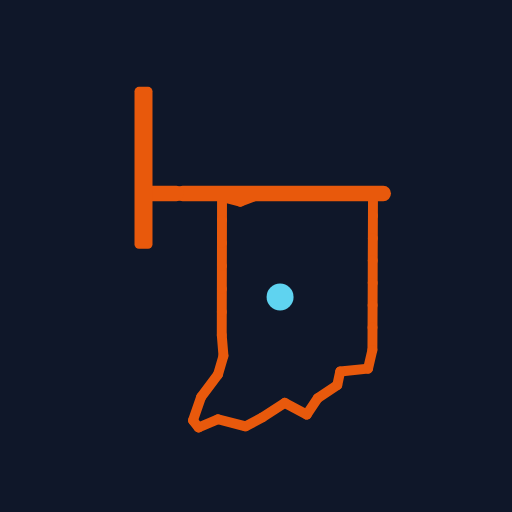
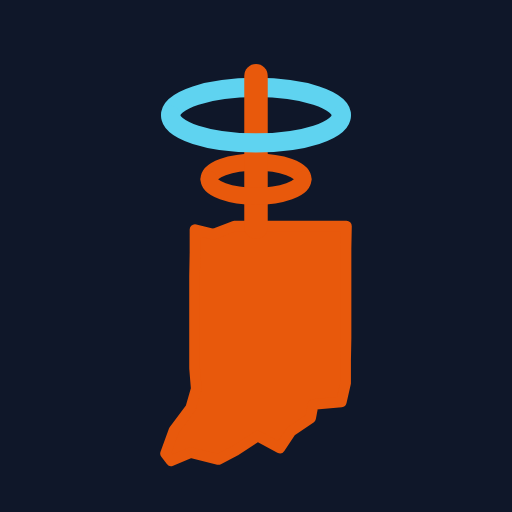
New mark: an antenna rising out of Indiana, its signal rings drawn as hoops
Claude-Session: https://claude.ai/code/session_01WD4jFhUxvP5nJsd9kdkoez

Changed region(s): [[0.25, 0.125, 0.7812, 0.9062]]

diff --git a/channels/index.html b/channels/index.html
@@ -6,7 +6,7 @@
 <meta name="viewport" content="width=device-width, initial-scale=1, viewport-fit=cover">
 <meta name="description" content="Listen-only channel lists you can import into CHIRP: FRS, GMRS, MURS, Indianapolis area repeaters, NOAA Weather Radio for your county, calling frequencies, and more. For information only; check the official sources.">
 <title>Channel Lists for CHIRP: FRS, GMRS, MURS, Repeaters, and Weather | HOOP</title>
-<link rel="icon" href="../assets/favicon.svg?v=20261025e" type="image/svg+xml">
+<link rel="icon" href="../assets/favicon.svg?v=20261111m" type="image/svg+xml">
 <meta property="og:type" content="website">
 <meta property="og:site_name" content="HOOP · Hoosier Off-Grid Open Playbook">
 <meta property="og:title" content="Channel lists for CHIRP, Indiana">
@@ -74,7 +74,7 @@ ol.how { margin: 0; padding-left: 1.3em; display: grid; gap: 6px; }
 </head>
 <body>
 <header class="site-head"><div class="bar">
-  <a class="brand" href="../"><img class="brand-mark" src="../assets/mark.svg?v=20261025e" alt="" width="34" height="53"><img class="brand-mark-sm" src="../assets/favicon.svg?v=20261025e" alt="" width="30" height="38"><span class="brand-text">HOOP<small>Hoosier Off-Grid Open Playbook</small></span></a>
+  <a class="brand" href="../"><img class="brand-mark" src="../assets/mark.svg?v=20261111m" alt="" width="32" height="50"><img class="brand-mark-sm" src="../assets/favicon.svg?v=20261111m" alt="" width="34" height="34"><span class="brand-text">HOOP<small>Hoosier Off-Grid Open Playbook</small></span></a>
   <nav class="site-nav" aria-label="Site">
     <button type="button" class="nav-menu" id="navMenu" aria-expanded="false" aria-controls="navMore"><span class="l-more">More</span><span class="l-menu">Menu</span></button>
     <span class="nav-more" id="navMore">

diff --git a/meshnet/index.html b/meshnet/index.html
@@ -6,7 +6,7 @@
 <meta name="viewport" content="width=device-width, initial-scale=1, viewport-fit=cover">
 <meta name="description" content="#meshnet: a ten-minute MeshCore check-in net open to anyone on the mesh, Sundays and Thursdays at 7:00 PM. This site logs check-ins from Indiana and its border counties on a map.">
 <title>#meshnet: The Universal MeshCore Check-in Net | HOOP</title>
-<link rel="icon" href="../assets/favicon.svg?v=20261025e" type="image/svg+xml">
+<link rel="icon" href="../assets/favicon.svg?v=20261111m" type="image/svg+xml">
 <meta property="og:type" content="website">
 <meta property="og:site_name" content="HOOP · Hoosier Off-Grid Open Playbook">
 <meta property="og:title" content="#meshnet: the same check-in on every mesh, at the same time">
@@ -134,7 +134,7 @@ td.mono { font-family: var(--mono); white-space: nowrap; }
 </head>
 <body>
 <header class="site-head"><div class="bar">
-  <a class="brand" href="../"><img class="brand-mark" src="../assets/mark.svg?v=20261025e" alt="" width="34" height="53"><img class="brand-mark-sm" src="../assets/favicon.svg?v=20261025e" alt="" width="30" height="38"><span class="brand-text">HOOP<small>Hoosier Off-Grid Open Playbook</small></span></a>
+  <a class="brand" href="../"><img class="brand-mark" src="../assets/mark.svg?v=20261111m" alt="" width="32" height="50"><img class="brand-mark-sm" src="../assets/favicon.svg?v=20261111m" alt="" width="34" height="34"><span class="brand-text">HOOP<small>Hoosier Off-Grid Open Playbook</small></span></a>
   <nav class="site-nav" aria-label="Site">
     <button type="button" class="nav-menu" id="navMenu" aria-expanded="false" aria-controls="navMore"><span class="l-more">More</span><span class="l-menu">Menu</span></button>
     <span class="nav-more" id="navMore">

diff --git a/meshcore/index.html b/meshcore/index.html
@@ -6,7 +6,7 @@
 <meta name="viewport" content="width=device-width, initial-scale=1, viewport-fit=cover">
 <meta name="description" content="New radio to first MeshCore message in Indiana in five steps: which radio, the USA preset, channels people use, and the groups near you. No license, about $30.">
 <title>Get on the Indiana Mesh: MeshCore in Five Steps | HOOP</title>
-<link rel="icon" href="../assets/favicon.svg?v=20261025e" type="image/svg+xml">
+<link rel="icon" href="../assets/favicon.svg?v=20261111m" type="image/svg+xml">
 <meta property="og:type" content="website">
 <meta property="og:site_name" content="HOOP · Hoosier Off-Grid Open Playbook">
 <meta property="og:title" content="Get on the Indiana mesh: MeshCore in five steps">
@@ -160,7 +160,7 @@ details.depth[open] { padding-bottom: 18px; }
 </head>
 <body>
 <header class="site-head"><div class="bar">
-  <a class="brand" href="../"><img class="brand-mark" src="../assets/mark.svg?v=20261025e" alt="" width="34" height="53"><img class="brand-mark-sm" src="../assets/favicon.svg?v=20261025e" alt="" width="30" height="38"><span class="brand-text">HOOP<small>Hoosier Off-Grid Open Playbook</small></span></a>
+  <a class="brand" href="../"><img class="brand-mark" src="../assets/mark.svg?v=20261111m" alt="" width="32" height="50"><img class="brand-mark-sm" src="../assets/favicon.svg?v=20261111m" alt="" width="34" height="34"><span class="brand-text">HOOP<small>Hoosier Off-Grid Open Playbook</small></span></a>
   <nav class="site-nav" aria-label="Site">
     <button type="button" class="nav-menu" id="navMenu" aria-expanded="false" aria-controls="navMore"><span class="l-more">More</span><span class="l-menu">Menu</span></button>
     <span class="nav-more" id="navMore">

diff --git a/emergency/index.html b/emergency/index.html
@@ -6,7 +6,7 @@
 <meta name="viewport" content="width=device-width, initial-scale=1, viewport-fit=cover">
 <meta name="description" content="How emergency managers, CERT, ARES/RACES, and disaster groups use off-grid LoRa mesh radio, with cited case studies from four states and New Zealand. APA.">
 <title>Off-Grid Mesh Radio for Emergency Management and CERT | HOOP</title>
-<link rel="icon" href="../assets/favicon.svg?v=20261025e" type="image/svg+xml">
+<link rel="icon" href="../assets/favicon.svg?v=20261111m" type="image/svg+xml">
 <meta property="og:type" content="website">
 <meta property="og:site_name" content="HOOP · Hoosier Off-Grid Open Playbook">
 <meta property="og:title" content="Off-grid mesh for emergency management">
@@ -78,7 +78,7 @@ th { font-weight: 700; border-top: 0; }
 </head>
 <body>
 <header class="site-head" id="top"><div class="bar">
-  <a class="brand" href="../"><img class="brand-mark" src="../assets/mark.svg?v=20261025e" alt="" width="34" height="53"><img class="brand-mark-sm" src="../assets/favicon.svg?v=20261025e" alt="" width="30" height="38"><span class="brand-text">HOOP<small>Hoosier Off-Grid Open Playbook</small></span></a>
+  <a class="brand" href="../"><img class="brand-mark" src="../assets/mark.svg?v=20261111m" alt="" width="32" height="50"><img class="brand-mark-sm" src="../assets/favicon.svg?v=20261111m" alt="" width="34" height="34"><span class="brand-text">HOOP<small>Hoosier Off-Grid Open Playbook</small></span></a>
   <nav class="site-nav" aria-label="Site">
     <button type="button" class="nav-menu" id="navMenu" aria-expanded="false" aria-controls="navMore"><span class="l-more">More</span><span class="l-menu">Menu</span></button>
     <span class="nav-more" id="navMore">

diff --git a/projects/index.html b/projects/index.html
@@ -6,7 +6,7 @@
 <meta name="viewport" content="width=device-width, initial-scale=1, viewport-fit=cover">
 <meta name="description" content="Off-grid communications projects made or used in Indiana: mesh firmware, apps and tools, 3D-printed enclosures, ham and GMRS tools, and maps. Anyone can add one.">
 <title>Off-Grid Projects Made or Used in Indiana | HOOP</title>
-<link rel="icon" href="../assets/favicon.svg?v=20261025e" type="image/svg+xml">
+<link rel="icon" href="../assets/favicon.svg?v=20261111m" type="image/svg+xml">
 <meta property="og:type" content="website">
 <meta property="og:site_name" content="HOOP · Hoosier Off-Grid Open Playbook">
 <meta property="og:title" content="Off-grid projects made or used in Indiana">
@@ -74,7 +74,7 @@ section { display: grid; gap: 14px; }
 </head>
 <body>
 <header class="site-head"><div class="bar">
-  <a class="brand" href="../"><img class="brand-mark" src="../assets/mark.svg?v=20261025e" alt="" width="34" height="53"><img class="brand-mark-sm" src="../assets/favicon.svg?v=20261025e" alt="" width="30" height="38"><span class="brand-text">HOOP<small>Hoosier Off-Grid Open Playbook</small></span></a>
+  <a class="brand" href="../"><img class="brand-mark" src="../assets/mark.svg?v=20261111m" alt="" width="32" height="50"><img class="brand-mark-sm" src="../assets/favicon.svg?v=20261111m" alt="" width="34" height="34"><span class="brand-text">HOOP<small>Hoosier Off-Grid Open Playbook</small></span></a>
   <nav class="site-nav" aria-label="Site">
     <button type="button" class="nav-menu" id="navMenu" aria-expanded="false" aria-controls="navMore"><span class="l-more">More</span><span class="l-menu">Menu</span></button>
     <span class="nav-more" id="navMore">

diff --git a/index.html b/index.html
@@ -6,7 +6,7 @@
 <meta name="viewport" content="width=device-width, initial-scale=1, viewport-fit=cover">
 <meta name="description" content="Indiana off-grid comms on one map: MeshCore repeaters, live NWS alerts, radio nets, and starting settings for MeshCore, Meshtastic, GMRS, ham, and Reticulum.">
 <title>HOOP: Indiana Off-Grid Comms, MeshCore Map, Nets, and Settings</title>
-<link rel="icon" href="assets/favicon.svg?v=20261025e" type="image/svg+xml">
+<link rel="icon" href="assets/favicon.svg?v=20261111m" type="image/svg+xml">
 <meta property="og:type" content="website">
 <meta property="og:site_name" content="HOOP · Hoosier Off-Grid Open Playbook">
 <meta property="og:title" content="HOOP · Hoosier Off-Grid Open Playbook">
@@ -343,7 +343,7 @@ p { margin: 0; }
 </head>
 <body>
 <header class="site-head" id="top"><div class="bar">
-  <a class="brand" href="./"><img class="brand-mark" src="assets/mark.svg?v=20261025e" alt="" width="34" height="53"><img class="brand-mark-sm" src="assets/favicon.svg?v=20261025e" alt="" width="30" height="38"><span class="brand-text">HOOP<small>Hoosier Off-Grid Open Playbook</small></span></a>
+  <a class="brand" href="./"><img class="brand-mark" src="assets/mark.svg?v=20261111m" alt="" width="32" height="50"><img class="brand-mark-sm" src="assets/favicon.svg?v=20261111m" alt="" width="34" height="34"><span class="brand-text">HOOP<small>Hoosier Off-Grid Open Playbook</small></span></a>
   <nav class="site-nav" aria-label="Site">
     <button type="button" class="nav-menu" id="navMenu" aria-expanded="false" aria-controls="navMore"><span class="l-more">More</span><span class="l-menu">Menu</span></button>
     <span class="nav-more" id="navMore">

diff --git a/live/index.html b/live/index.html
@@ -6,7 +6,7 @@
 <meta name="viewport" content="width=device-width, initial-scale=1, viewport-fit=cover">
 <meta name="description" content="Where live MeshCore traffic in Indiana shows up: Waev, OKI CoreScope, LetsMesh, MeshMapper, and the official MeshCore Map, plus how to run an observer.">
 <title>Watch Indiana MeshCore Traffic Live | HOOP</title>
-<link rel="icon" href="../assets/favicon.svg?v=20261025e" type="image/svg+xml">
+<link rel="icon" href="../assets/favicon.svg?v=20261111m" type="image/svg+xml">
 <meta property="og:type" content="website">
 <meta property="og:site_name" content="HOOP · Hoosier Off-Grid Open Playbook">
 <meta property="og:title" content="Watch the Indiana mesh live">
@@ -68,7 +68,7 @@ section { display: grid; gap: 14px; }
 </head>
 <body>
 <header class="site-head"><div class="bar">
-  <a class="brand" href="../"><img class="brand-mark" src="../assets/mark.svg?v=20261025e" alt="" width="34" height="53"><img class="brand-mark-sm" src="../assets/favicon.svg?v=20261025e" alt="" width="30" height="38"><span class="brand-text">HOOP<small>Hoosier Off-Grid Open Playbook</small></span></a>
+  <a class="brand" href="../"><img class="brand-mark" src="../assets/mark.svg?v=20261111m" alt="" width="32" height="50"><img class="brand-mark-sm" src="../assets/favicon.svg?v=20261111m" alt="" width="34" height="34"><span class="brand-text">HOOP<small>Hoosier Off-Grid Open Playbook</small></span></a>
   <nav class="site-nav" aria-label="Site">
     <button type="button" class="nav-menu" id="navMenu" aria-expanded="false" aria-controls="navMore"><span class="l-more">More</span><span class="l-menu">Menu</span></button>
     <span class="nav-more" id="navMore">

diff --git a/advanced/index.html b/advanced/index.html
@@ -7,7 +7,7 @@
 <meta name="robots" content="noindex, nofollow">
 <meta name="description" content="Advanced and theoretical: Indiana-specific material for MeshCore repeater owners, for consideration only. Three proposed region-tag structures, the open base commands, neighbours' tags, and observer brokers.">
 <title>Advanced and theoretical · HOOP</title>
-<link rel="icon" href="../assets/favicon.svg?v=20261025e" type="image/svg+xml">
+<link rel="icon" href="../assets/favicon.svg?v=20261111m" type="image/svg+xml">
 <meta property="og:type" content="website">
 <meta property="og:site_name" content="HOOP · Hoosier Off-Grid Open Playbook">
 <meta property="og:title" content="Advanced and theoretical">
@@ -295,7 +295,7 @@
 </head>
 <body>
 <header class="site-head"><div class="bar">
-  <a class="brand" href="../"><img class="brand-mark" src="../assets/mark.svg?v=20261025e" alt="" width="34" height="53"><img class="brand-mark-sm" src="../assets/favicon.svg?v=20261025e" alt="" width="30" height="38"><span class="brand-text">HOOP<small>Hoosier Off-Grid Open Playbook</small></span></a>
+  <a class="brand" href="../"><img class="brand-mark" src="../assets/mark.svg?v=20261111m" alt="" width="32" height="50"><img class="brand-mark-sm" src="../assets/favicon.svg?v=20261111m" alt="" width="34" height="34"><span class="brand-text">HOOP<small>Hoosier Off-Grid Open Playbook</small></span></a>
   <nav class="site-nav" aria-label="Site">
     <button type="button" class="nav-menu" id="navMenu" aria-expanded="false" aria-controls="navMore"><span class="l-more">More</span><span class="l-menu">Menu</span></button>
     <span class="nav-more" id="navMore">

diff --git a/sw.js b/sw.js
@@ -1,7 +1,7 @@
 /* HOOP offline support. Pages and assets: show the saved copy at once and refresh it in the background.
    data/*.json: network first, saved copy when offline. Anything on another site (weather, maps) is left alone.
    Bump CACHE when the list below changes. */
-var CACHE = "hoop-v6";
+var CACHE = "hoop-v7";
 var PRECACHE = ["./", "meshcore/", "meshnet/", "emergency/", "live/", "projects/", "channels/",
   "assets/site.css", "assets/site.js", "assets/theme.js", "assets/home.js", "assets/nets.js", "assets/chirps.js",
   "assets/fonts/archivo.woff2", "assets/fonts/plex-mono-400.woff2", "assets/fonts/plex-mono-500.woff2",
